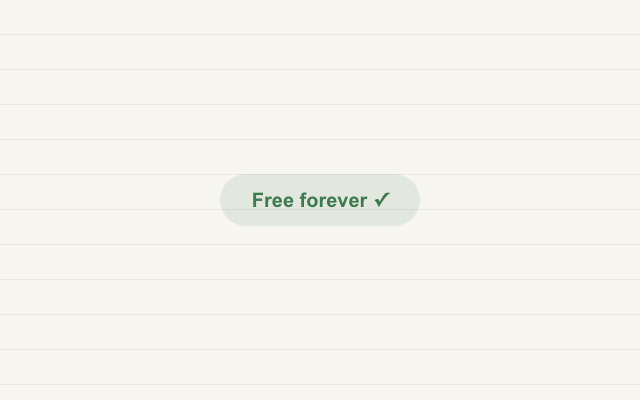
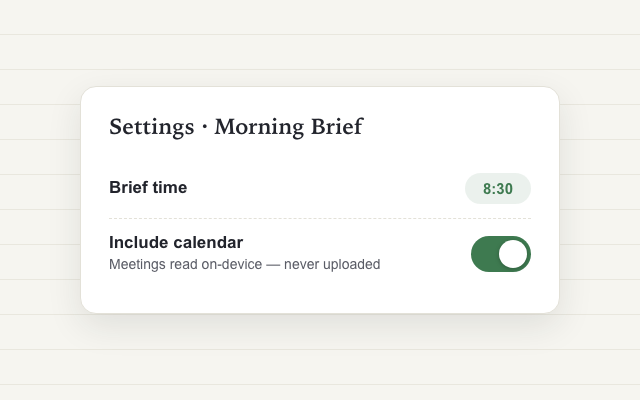
Brief tutorial: step 3 names the Include calendar toggle + Settings scene

diff --git a/guides.html b/guides.html
@@ -271,7 +271,7 @@
           <div class="steps">
         <div class="step"><div><b>It's on automatically</b> <span>— arrives at 8:30 by default.</span></div></div>
         <div class="step"><div><b>Change the time:</b> <span>Settings → Morning Brief.</span></div></div>
-        <div class="step"><div><b>Add your calendar (optional):</b> <span>toggle calendar context and the Brief includes today's meetings — read on-device, never uploaded.</span></div></div>
+        <div class="step"><div><b>Want your meetings in it?</b> <span>Settings → Morning Brief → turn on <b>Include calendar</b>. Read on-device — never uploaded.</span></div></div>
       </div>
           <div class="tip"><b>Tip:</b> quiet days stay quiet — no tasks and no meetings means a gentler brief, not guilt.</div>
         </div>
